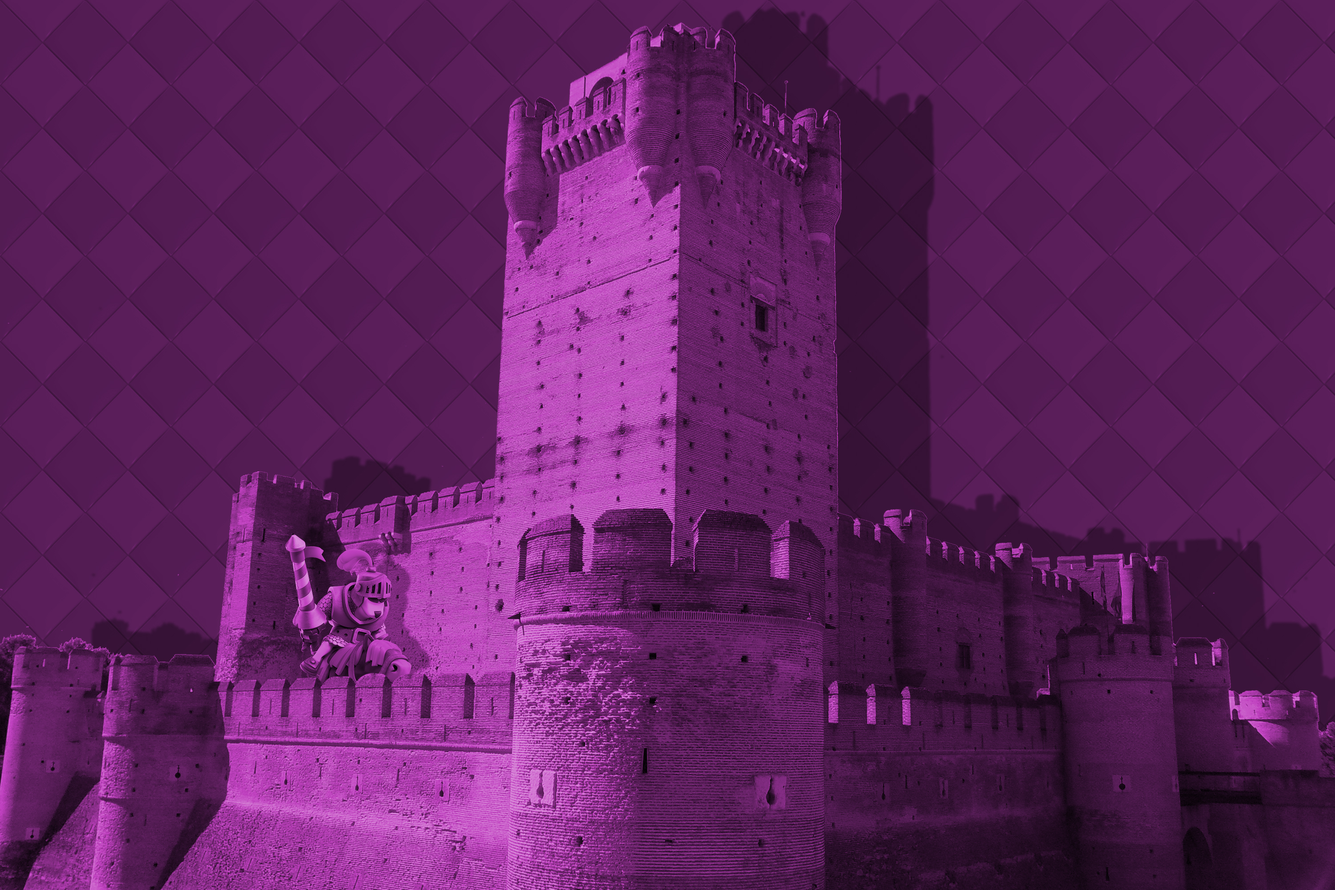
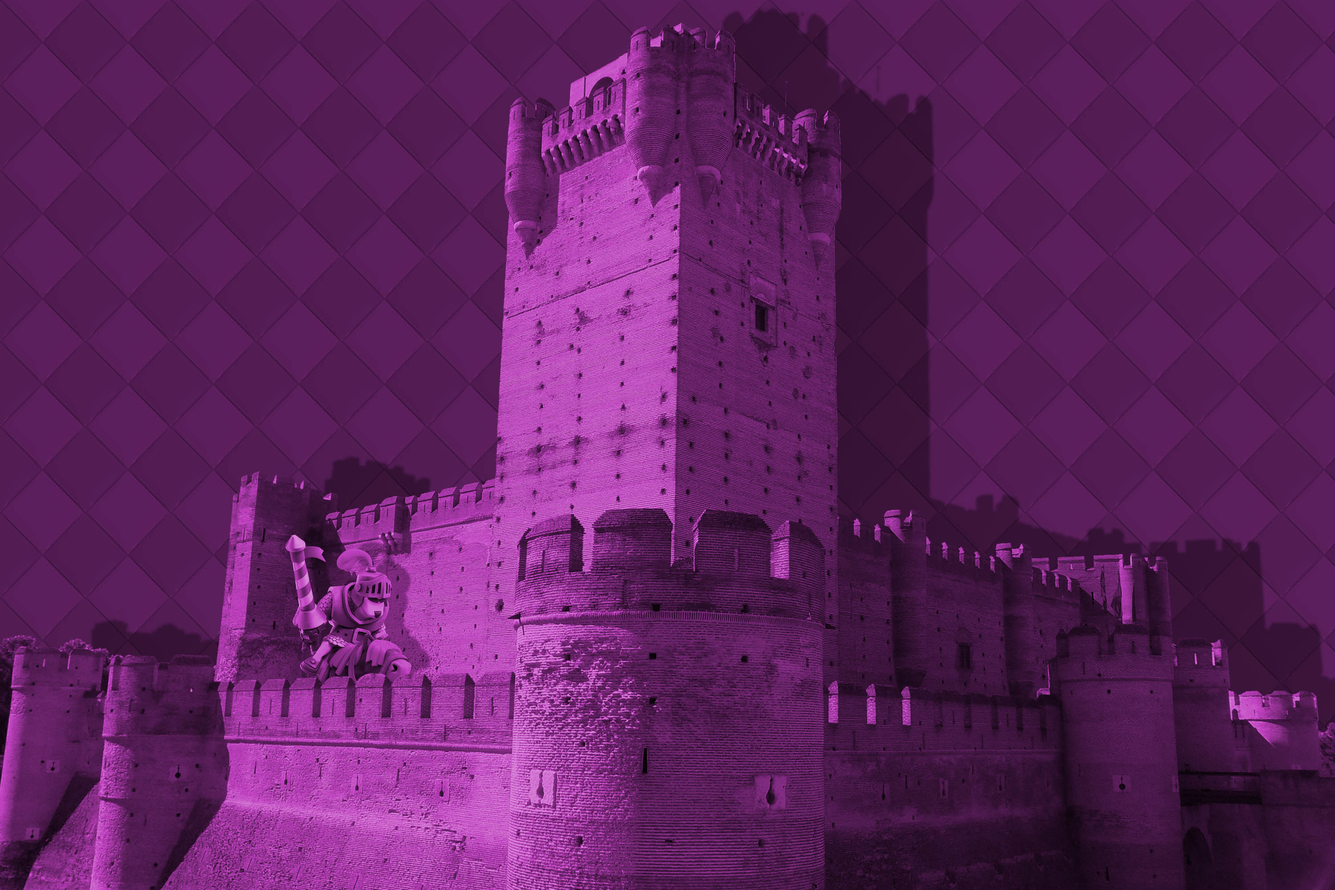
(fix) Las imagenes han adelgazado ( • ∀•)–Ψ

diff --git a/client/app/clan/clan.html b/client/app/clan/clan.html
@@ -34,7 +34,7 @@
     <div class="ficha">
       <img src="assets/images/staff/borjo.jpg" alt="..." class="img-circle">
       <div class="caption">
-        <p>Sttutgart</p>
+        <p>Stuttgart</p>
         <h3>Borjo</h3>
         <h5>EE1 - Co-líder</h5>
         <p>Programador</p>
